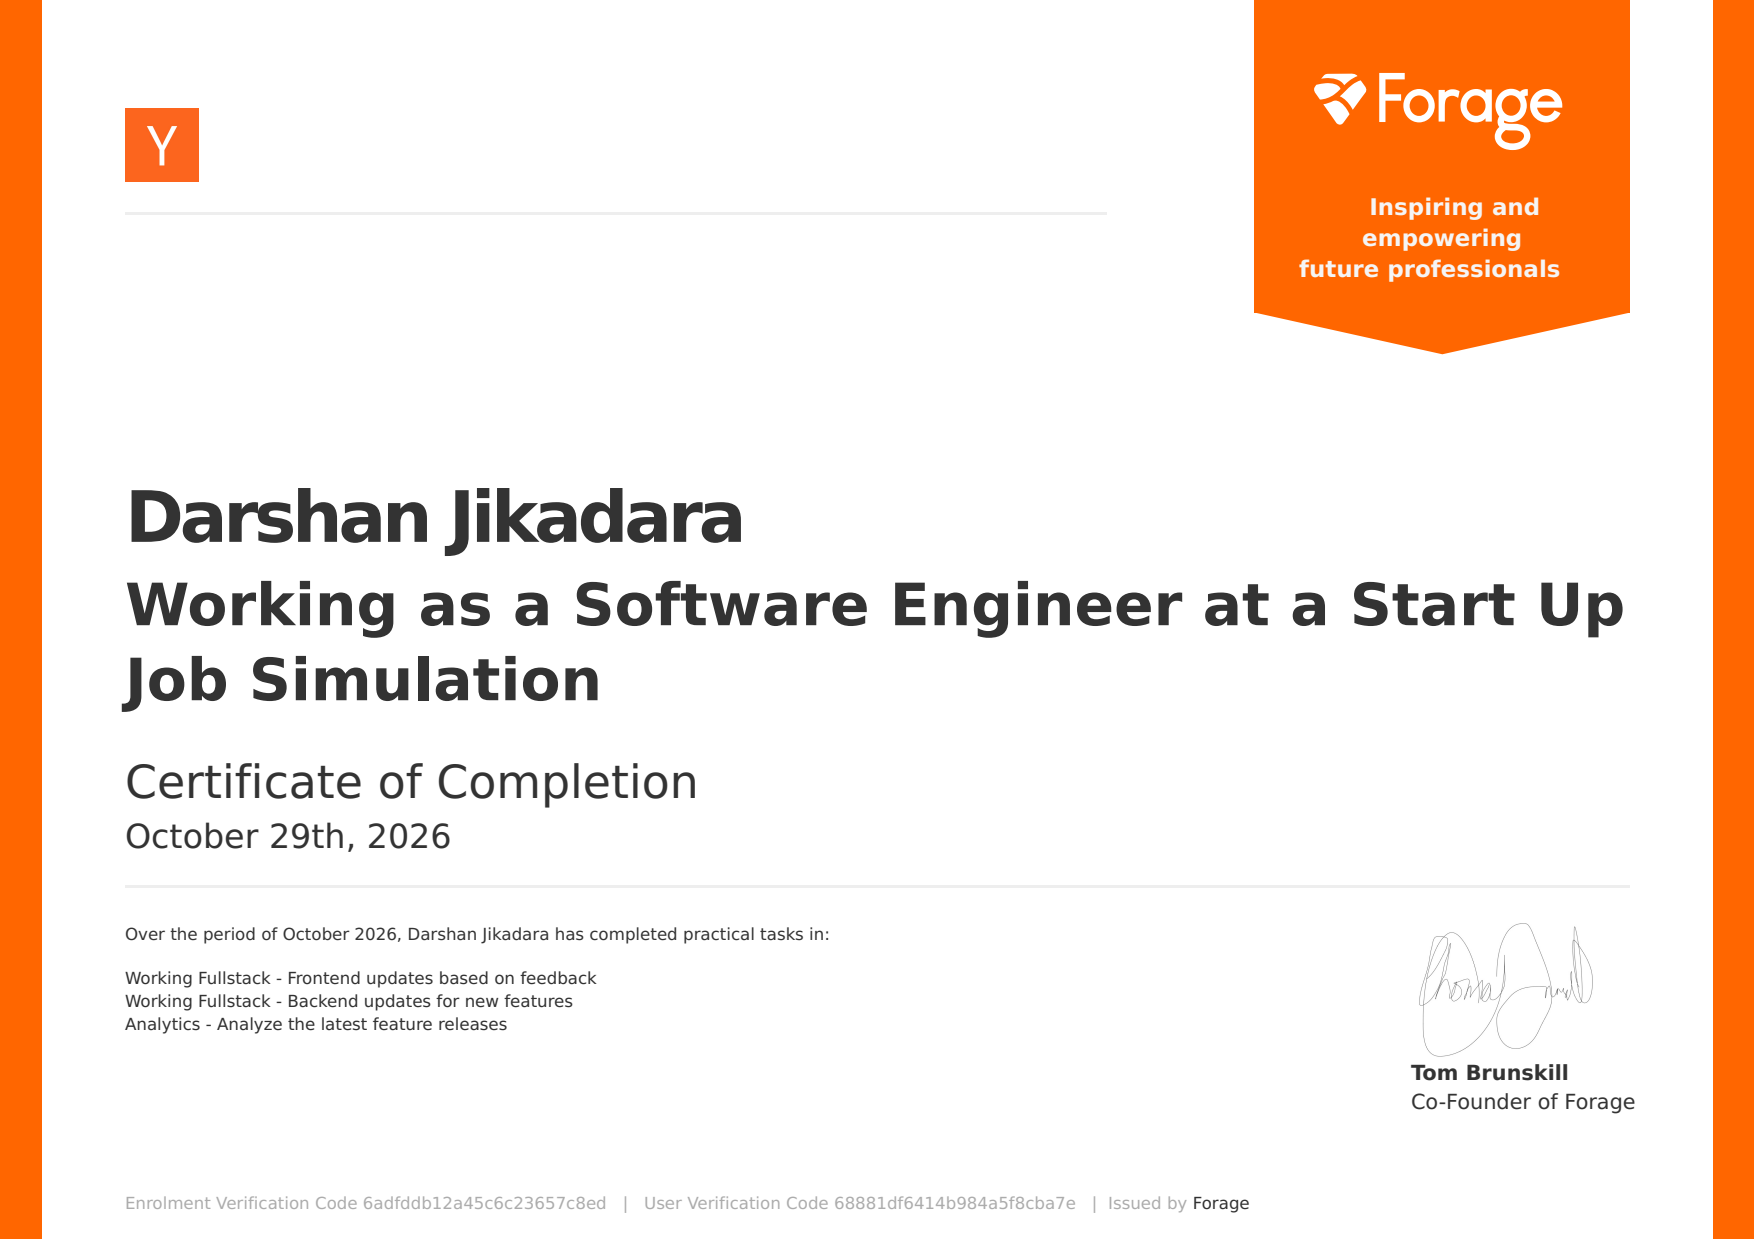
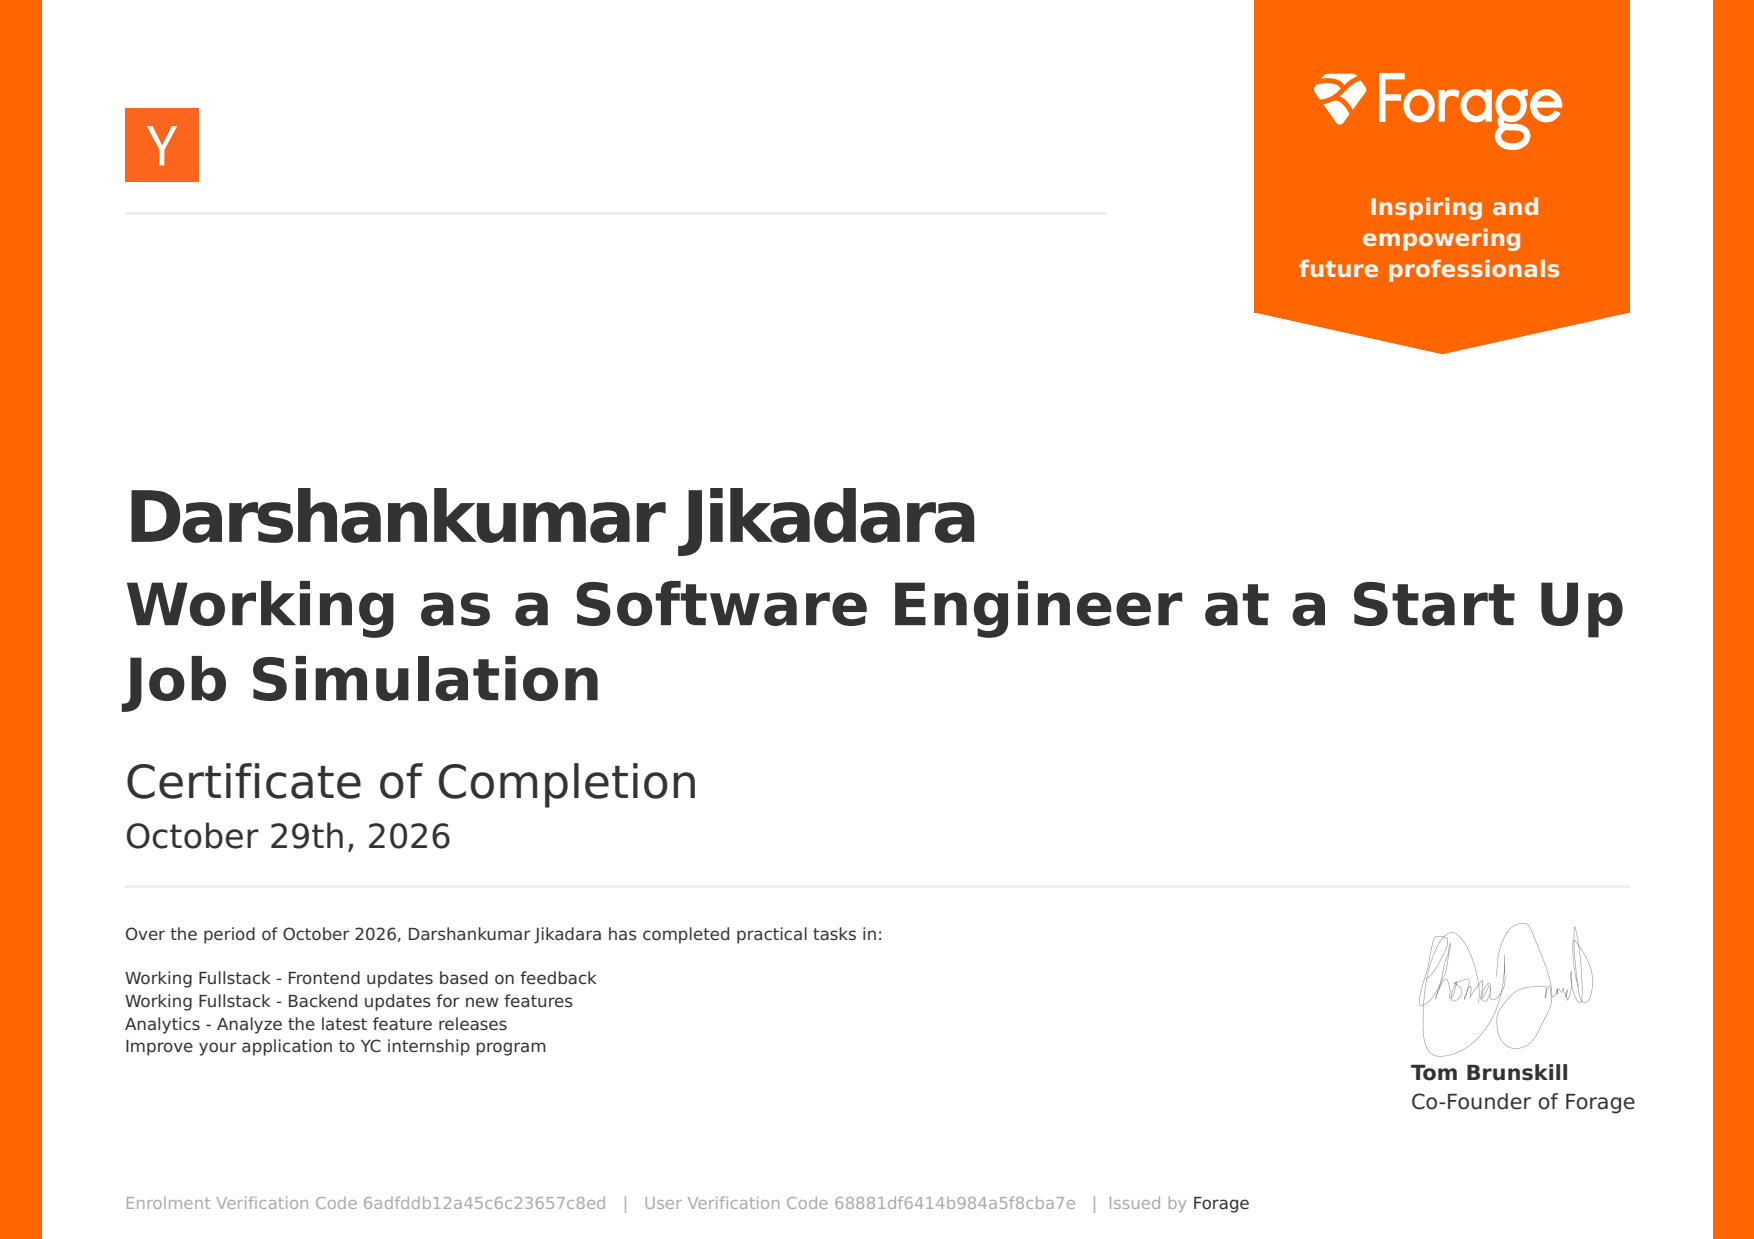
Update certificate (full name, all four tasks)

Changed region(s): [[0.2463, 0.3987, 0.5542, 0.46], [0.0616, 0.8281, 0.3079, 0.8588], [0.2771, 0.7361, 0.4926, 0.7667]]

diff --git a/README.md b/README.md
@@ -2,7 +2,7 @@
 
 My work for Y Combinator's **"Working as a Software Engineer at a Start Up"** job simulation on Forage (completed October 2026).
 
-Shiptivity is a fictional logistics startup with a Kanban board for shipping requests. The simulation had three tasks across the stack: a frontend feature, the backend that persists it, and an analysis of how the release affected usage.
+Shiptivity is a fictional logistics startup with a Kanban board for shipping requests. The simulation had four tasks. This repo covers the three engineering ones: a frontend feature, the backend that persists it, and an analysis of how the release affected usage. (The fourth was writing application notes to YC startups.)
 
 | Folder | Task | Stack | My change |
 |---|---|---|---|
